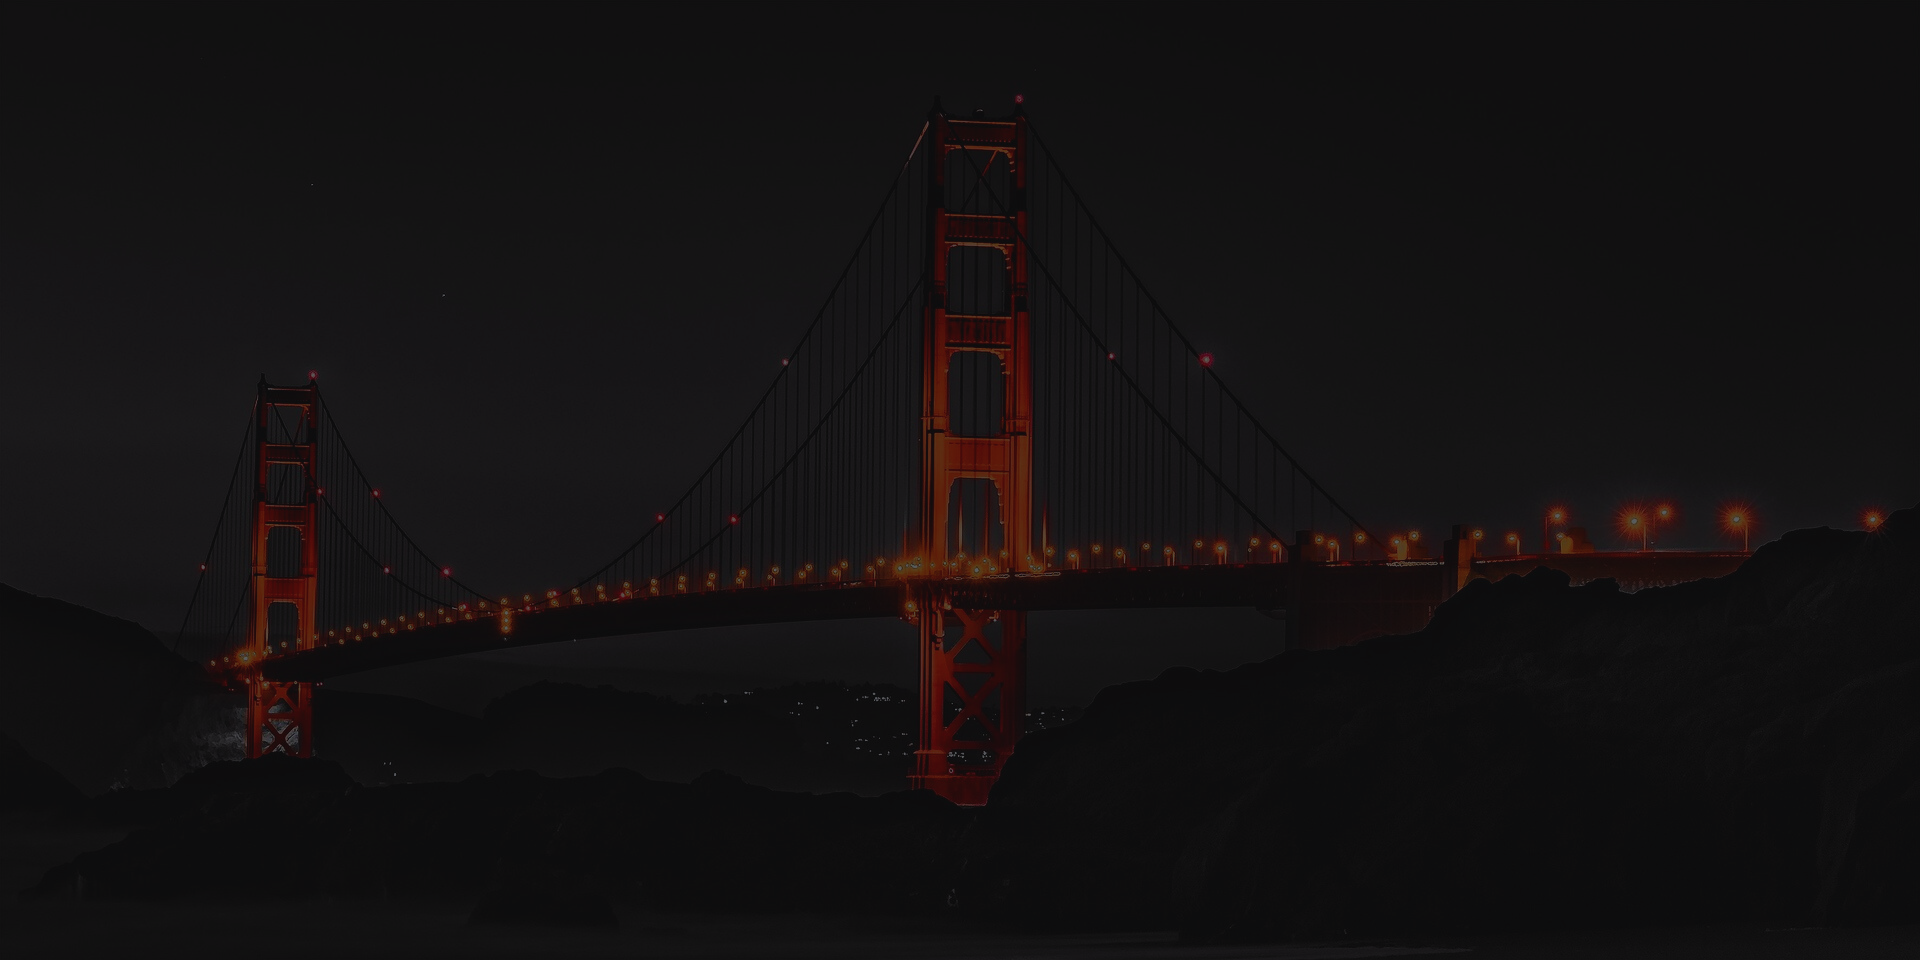
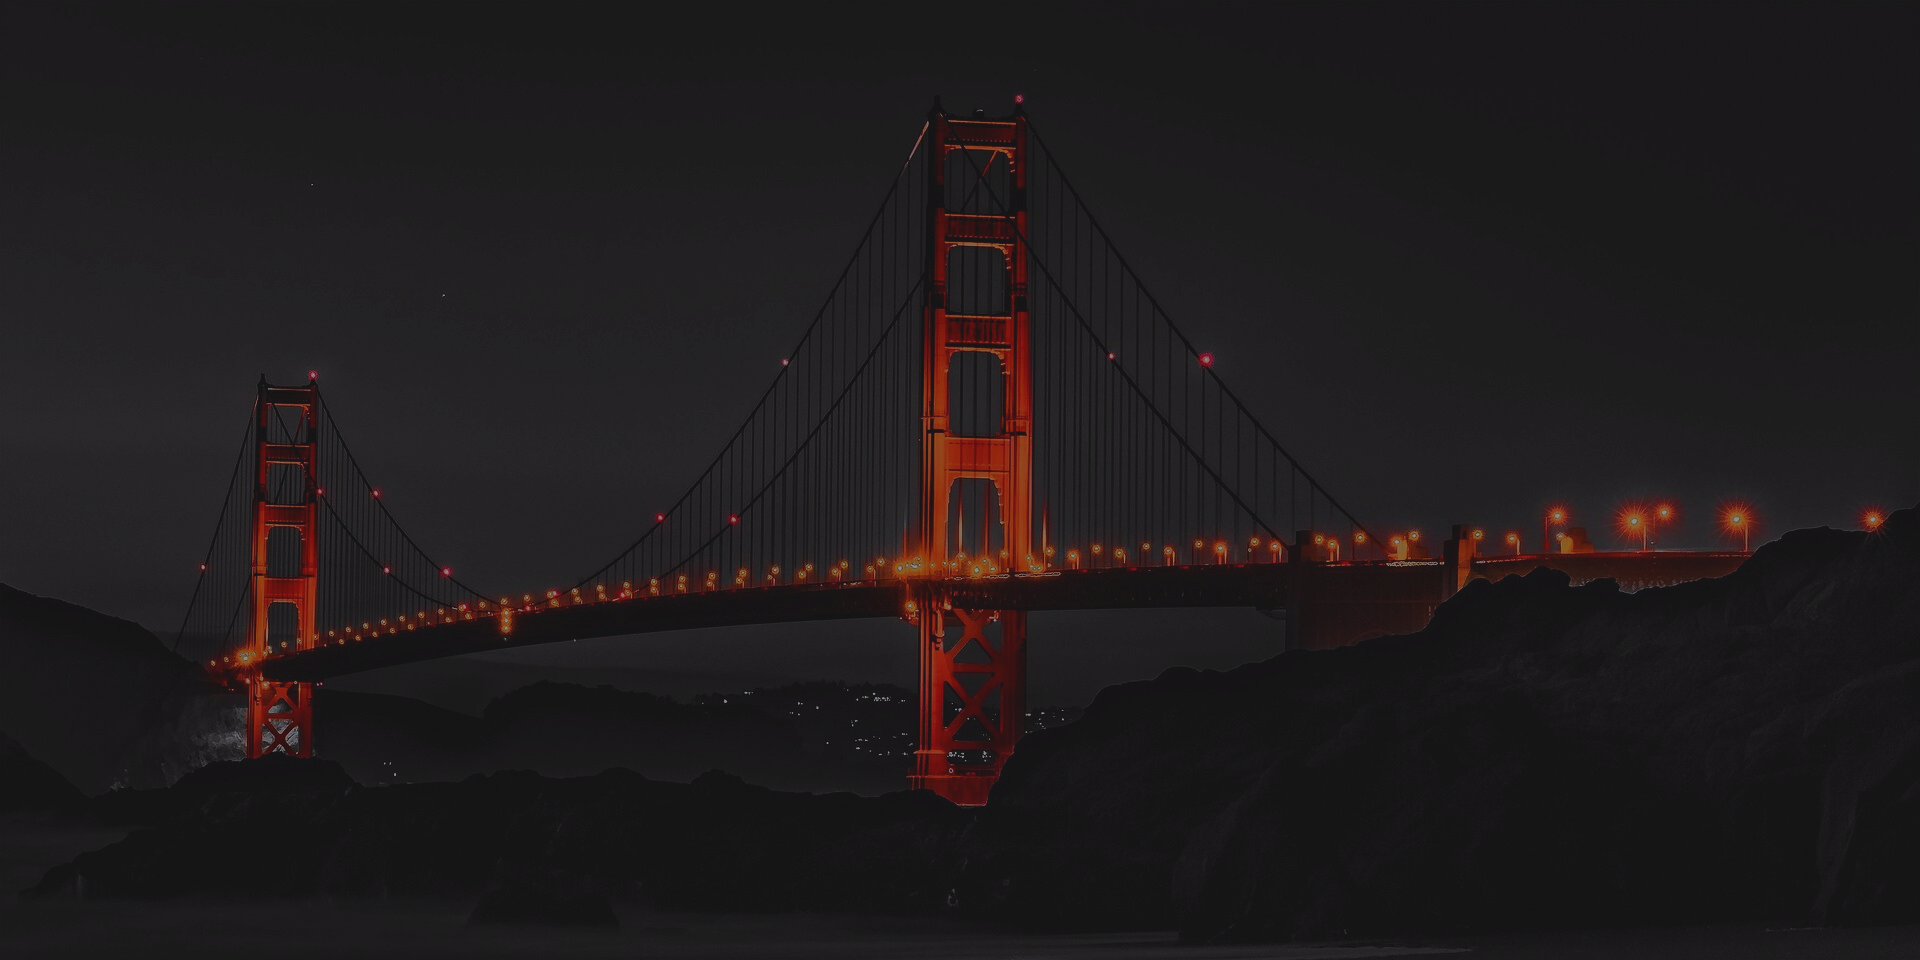
added more assets & complete splash section

diff --git a/assets/sass/branding.sass b/assets/sass/branding.sass
@@ -7,10 +7,11 @@
     box-sizing: border-box
 
 /* Import Font */
-@import url('https://fonts.googleapis.com/css2?family=Maven+Pro:wght@400..900&display=swap')
+@import url('https://fonts.googleapis.com/css2?family=Maven+Pro:wght@400..900&family=Rock+Salt&display=swap')
 
 // Font Variables
 $mainFont: 'Maven Pro', sans-serif
+$headingFont: "Rock Salt", cursive
 
 // Color Variables
 $baseColor: #1F1F1F
@@ -37,16 +38,12 @@ p
 li
     color: white
 
-// Head Styling
-head
-    font-family: $mainFont
-
 // Navigation Styling
 nav
     display: flex
     justify-content: space-between
     align-items: center
-    background-color: $accent2
+    background-color: $baseColor
     font-family: $mainFont
     padding: 15px
     width: 100%
@@ -92,62 +89,68 @@ body
     background-color: $baseColor
     font-family: $mainFont
     display: flex
-    flex-direction: column
-    justify-content: left
-    align-items: center
     flex-wrap: wrap
     // Header Class Styling
     .header
         background-image: url('/images/sfBanner.png')
+        background-blend-mode: lighten
         background-color: #000
         height: 100%
         width: 100%
-        padding-top: 175px
-        padding-bottom: 250px
+        padding-top: 300px
+        padding-bottom: 300px
         align-items: center
+        border: 1px solid $accent
+        border-left: none
+        border-right: none
         h1
             font-size: 60pt
-            margin-bottom: 15px
             text-align: center
             font-weight: normal
+            font-family: $headingFont
         p
-            font-size: 18pt
+            font-size: 20pt
             text-align: center
-
-    //Content Class Styling
-    .content
-        height: 100%
+    //About Class Styling
+    .about
+        padding: 30px 100px 80px 80px
         width: 100%
-        padding-left: 80px
-        padding-right: 80px
-        padding-bottom: 80px
+        box-sizing: border-box
+        justify-content: center
         align-items: center
         background-color: $accent2
-        p
+        h1
+            font-weight: normal
+            padding-bottom: 20px
+            font-family: $headingFont
             text-align: center
+        span
+            color: white
             font-size: 15pt
-        .About
-            align-items: left
-            h1
-                font-weight: normal
-        .Gallery
-            align-items: right
+            
+        img
+            border-radius: 100%
+            max-width: 30%
+            max-height: 30%
+            text-align: center
+        p
+            padding-top: 20px
+            font-size: 16pt
+            text-align: center
+            width: 55%
 
 // Default Text Styling
 h1
     color: white
-    text-align: left
     font-weight: bold
     
 
 h2
     color: white
-    text-align: left
     font-weight: normal
 
 p
     color: white
-    text-align: left
     font-weight: lighter
 
 li

diff --git a/assets/css/branding.css b/assets/css/branding.css
@@ -1,6 +1,6 @@
 /* Establish over-arching webpage branding */
 /* CSS/SASS Boilerplate */
-@import url("https://fonts.googleapis.com/css2?family=Maven+Pro:wght@400..900&display=swap");
+@import url("https://fonts.googleapis.com/css2?family=Maven+Pro:wght@400..900&family=Rock+Salt&display=swap");
 * {
   margin: 0;
   padding: 0;
@@ -30,15 +30,11 @@ li {
   color: white;
 }
 
-head {
-  font-family: "Maven Pro", sans-serif;
-}
-
 nav {
   display: flex;
   justify-content: space-between;
   align-items: center;
-  background-color: #141414;
+  background-color: #1F1F1F;
   font-family: "Maven Pro", sans-serif;
   padding: 15px;
   width: 100%;
@@ -84,68 +80,74 @@ body {
   background-color: #1F1F1F;
   font-family: "Maven Pro", sans-serif;
   display: flex;
-  flex-direction: column;
-  justify-content: left;
-  align-items: center;
   flex-wrap: wrap;
 }
 body .header {
   background-image: url("/images/sfBanner.png");
+  background-blend-mode: lighten;
   background-color: #000;
   height: 100%;
   width: 100%;
-  padding-top: 175px;
-  padding-bottom: 250px;
+  padding-top: 300px;
+  padding-bottom: 300px;
   align-items: center;
+  border: 1px solid #E79223;
+  border-left: none;
+  border-right: none;
 }
 body .header h1 {
   font-size: 60pt;
-  margin-bottom: 15px;
   text-align: center;
   font-weight: normal;
+  font-family: "Rock Salt", cursive;
 }
 body .header p {
-  font-size: 18pt;
+  font-size: 20pt;
   text-align: center;
 }
-body .content {
-  height: 100%;
+body .about {
+  padding: 30px 100px 80px 80px;
   width: 100%;
-  padding-left: 80px;
-  padding-right: 80px;
-  padding-bottom: 80px;
+  box-sizing: border-box;
+  justify-content: center;
   align-items: center;
   background-color: #141414;
 }
-body .content p {
+body .about h1 {
+  font-weight: normal;
+  padding-bottom: 20px;
+  font-family: "Rock Salt", cursive;
   text-align: center;
+}
+body .about span {
+  color: white;
   font-size: 15pt;
 }
-body .content .About {
-  align-items: left;
+body .about img {
+  border-radius: 100%;
+  max-width: 30%;
+  max-height: 30%;
+  text-align: center;
 }
-body .content .About h1 {
-  font-weight: normal;
-}
-body .content .Gallery {
-  align-items: right;
+body .about p {
+  padding-top: 20px;
+  font-size: 16pt;
+  text-align: center;
+  width: 55%;
 }
 
 h1 {
   color: white;
-  text-align: left;
   font-weight: bold;
 }
 
 h2 {
   color: white;
-  text-align: left;
   font-weight: normal;
 }
 
 p {
   color: white;
-  text-align: left;
   font-weight: lighter;
 }
 

diff --git a/index.html b/index.html
@@ -19,30 +19,33 @@
             <img src="images\iconOrange.png" alt="J. Cales' Personal Logo">
             <span>Jonathan Cales</span>
         </div>
-        <section class="navigation">
+        <div class="navigation">
             <ul>
-                <li><a href="#About">About</a></li>
-                <li><a href="#Projects">Projects</a></li>
-                <li><a href="#Academia">Academia</a></li>
+                <li><a href="#about">About</a></li>
+                <li><a href="#projects">Projects</a></li>
+                <li><a href="#academia">Academia</a></li>
             </ul>
-        </section>
+        </div>
     </nav>
     <section class="header">
         <h1>Jonathan Cales</h1>
         <p>Computer Programmer & Visual Designer</p>
     </section>
-    <section class="content">
-        <div class="About">
-            <h1>
-                
-            </h1>
-        </div>
-        <div>
-            <div class="Gallery">
-
-            </div>
-        </div>
+    <section class="about">
+        <h1 id="about">
+            Meet Jon
+        </h1>
+        <img src="images\portrait.jpg" alt="J. Cales Portrait">
+        <p>I am a computer programmer who loves to experiment with full-stack development in pursuit of becoming a software engineer. 
+            I went to school at Rhodes State College where I graduated with an Associates Degree in Applied Science with a major in Web & Computer Programming.
+            I value making a long-term imapct and aspire for a career that helps me do so while staying in touch with information technology, systems analysis & design.
+        </p>
     </section>
+    <section class="experience">
 
+    </section>
+    <section class="projects">
+
+    </section>
 </body>
 </html>
